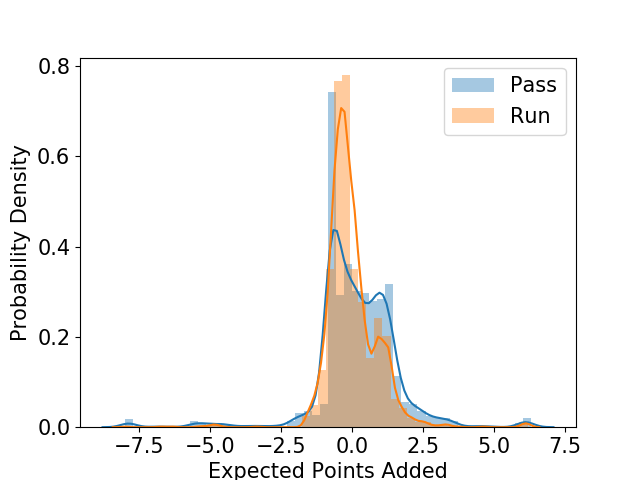
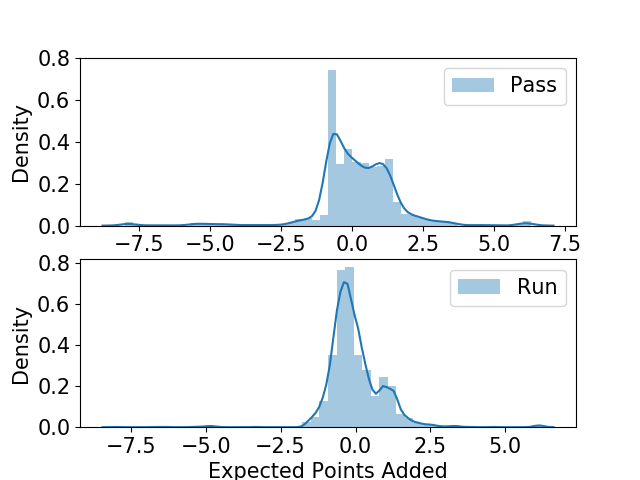
Add files via upload

diff --git a/Chapter-21/PassRun_1D.py b/Chapter-21/PassRun_1D.py
@@ -12,24 +12,37 @@ import matplotlib.pyplot as plt
 import seaborn as sns
 
 dataset = pd.read_csv("pbp_1618.csv")
+#epv = pd.read_csv("CWS.csv")
 
 print("Pass-Run Ration on 1st and 10 at our own 25")
 print(dataset["play_type"].value_counts())
 
 
+#epa = [(epv[(epv.Down == 2) & (epv.Ydstogo == 10-dataset['yards_gained'].iloc[i])& (epv.Line == 25+dataset['yards_gained'].iloc[i])]["Value"].reset_index()['Value'][0]-epv[(epv.Down == 1) & (epv.Ydstogo == 10) & (epv.Line == 25)]["Value"].reset_index()['Value'][0]) if dataset['yards_gained'].iloc[i] < 10 else (epv[(epv.Down == 1) & (epv.Ydstogo == min(10,100-(25 + dataset['yards_gained'].iloc[i]))) & (epv.Line == 25 + dataset['yards_gained'].iloc[i])]["Value"].reset_index()['Value'][0]-epv[(epv.Down == 1) & (epv.Ydstogo == 10) & (epv.Line == 25)]["Value"].reset_index()['Value'][0]) for i in range(len(dataset))]
+
+
 pass_epa = dataset[dataset.play_type == "pass"]["epa"]
 run_epa = dataset[dataset.play_type == "run"]["epa"]
 
+print("+++++++++++++++++++++++++++++++++++++++++++++++++++++++++++++++++++++++")
+print("The average EPA for a pass play is: ", np.mean(pass_epa), " with a success rate of: ", len([x for x in pass_epa if x>0])/len(pass_epa))
+print("The average EPA for a run play is: ", np.mean(run_epa), " with a success rate of: ", len([x for x in run_epa if x>0])/len(run_epa))
+
 matplotlib.rcParams.update({'font.size': 15})
 
-
-fig = plt.figure()
-ax1 = fig.add_axes(ylim=(-8,8))
-ax2 = fig.add_axes(ylim=(-8,8))
-sns.distplot(pass_epa,ax = ax1,label="Pass")
-sns.distplot(run_epa,ax = ax2,label="Run")
+plt.figure()
+plt.subplot(211)
+sns.distplot(pass_epa,label="Pass")
+plt.yticks([0,0.2,0.4,0.6,0.8])
 plt.xlabel("Expected Points Added")
-plt.ylabel("Probability Density")
+plt.ylabel("Density")
 plt.legend()
-plt.savefig("Pass-Run-EPA.png")
 
+plt.subplot(212)
+sns.distplot(run_epa,label="Run")
+plt.yticks([0,0.2,0.4,0.6,0.8])
+plt.xlabel("Expected Points Added")
+plt.ylabel("Density")
+plt.legend()
+
+plt.savefig("Pass-Run-EPA.png")
